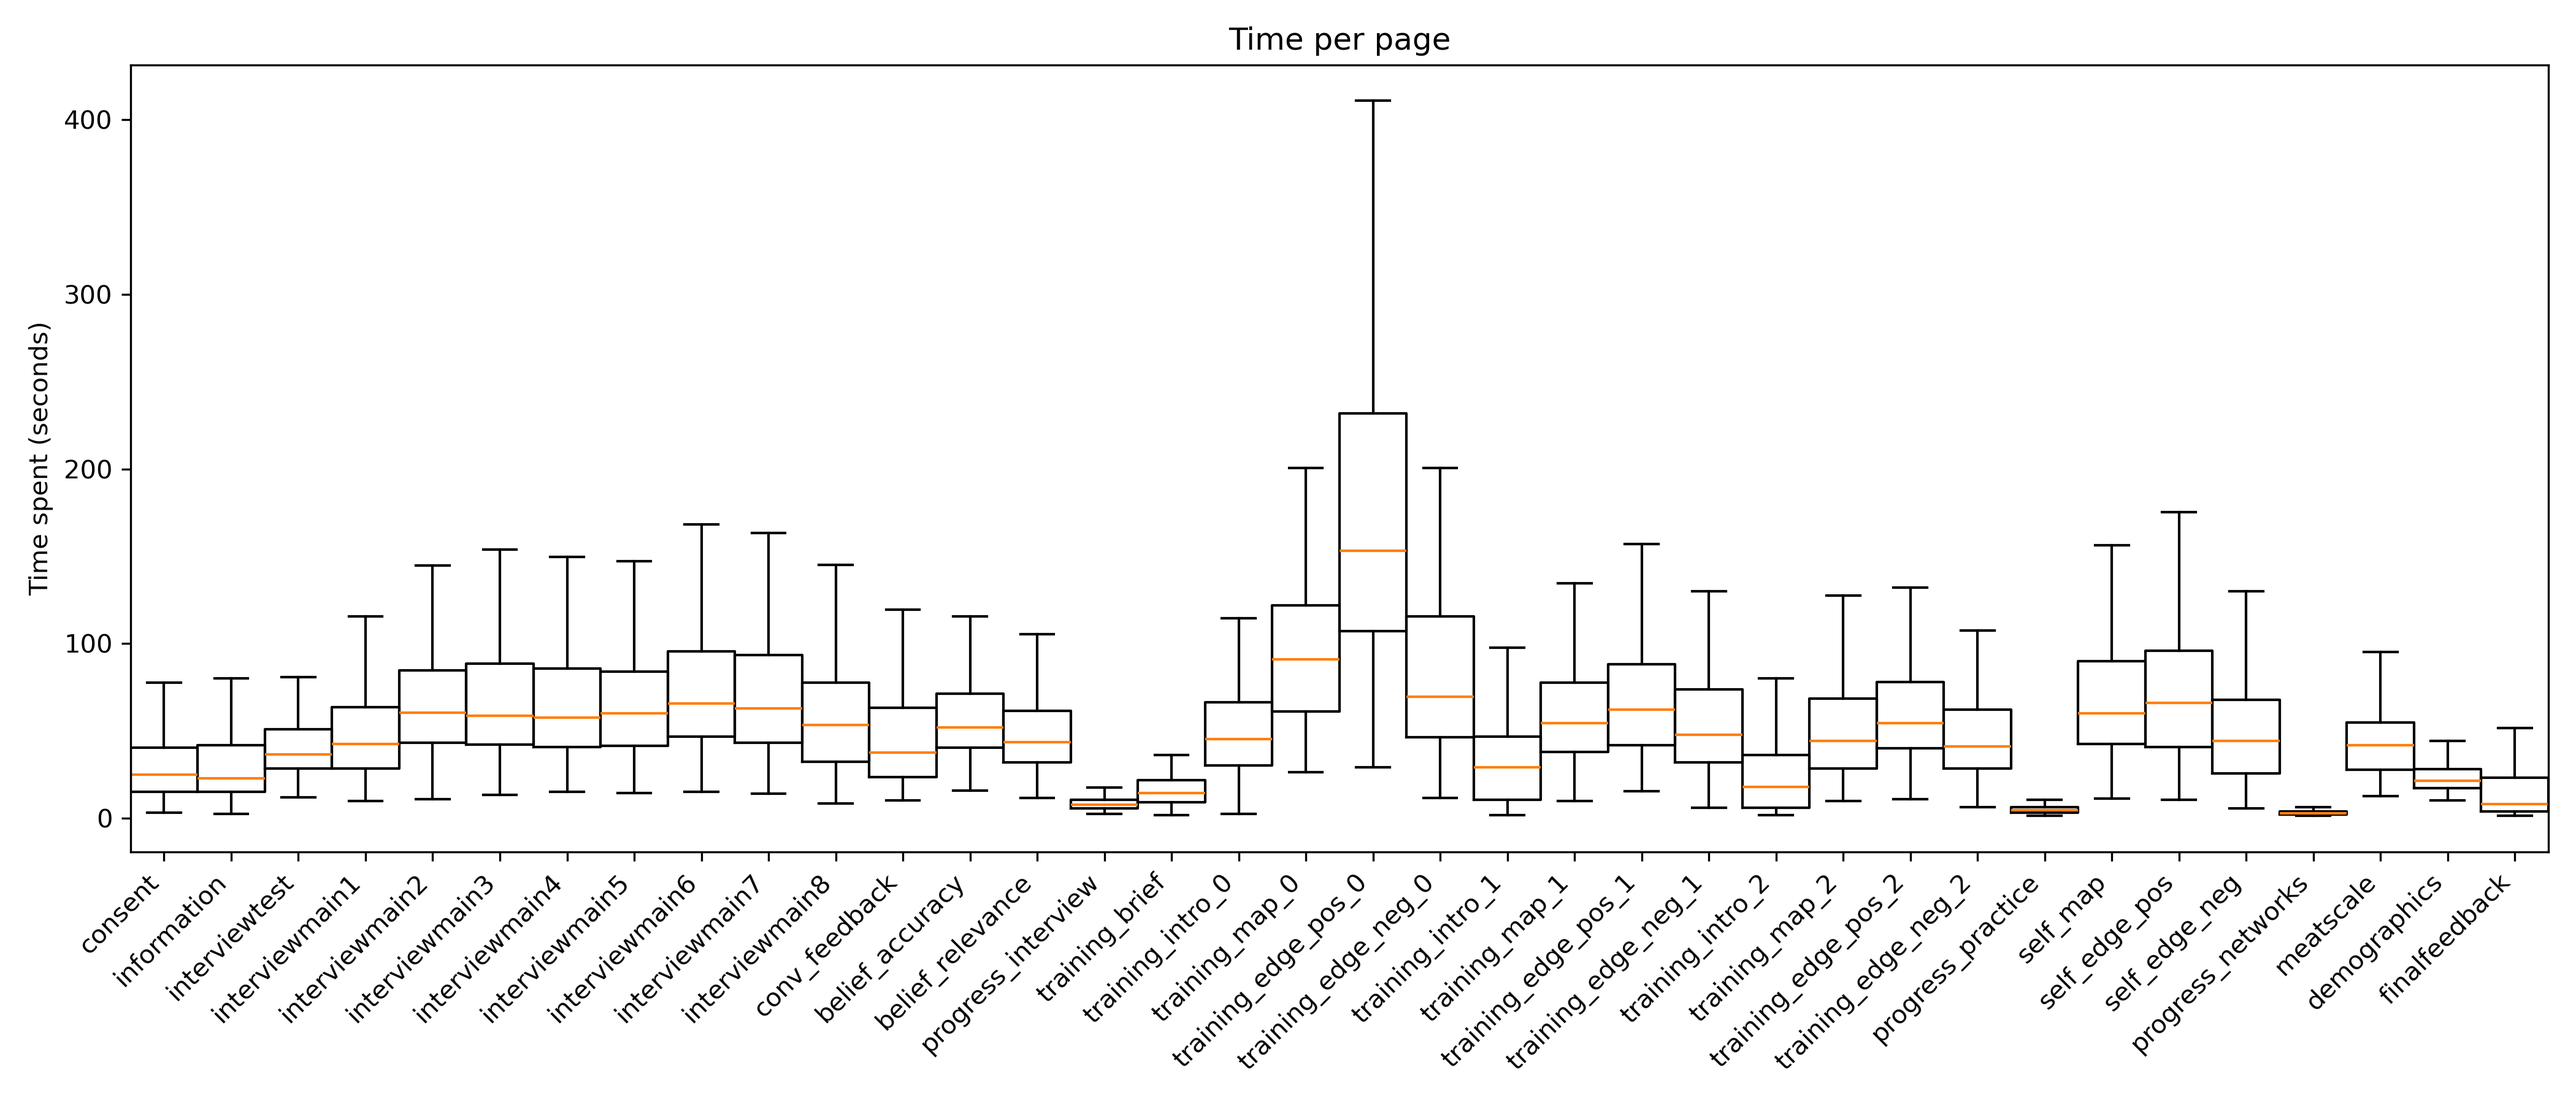
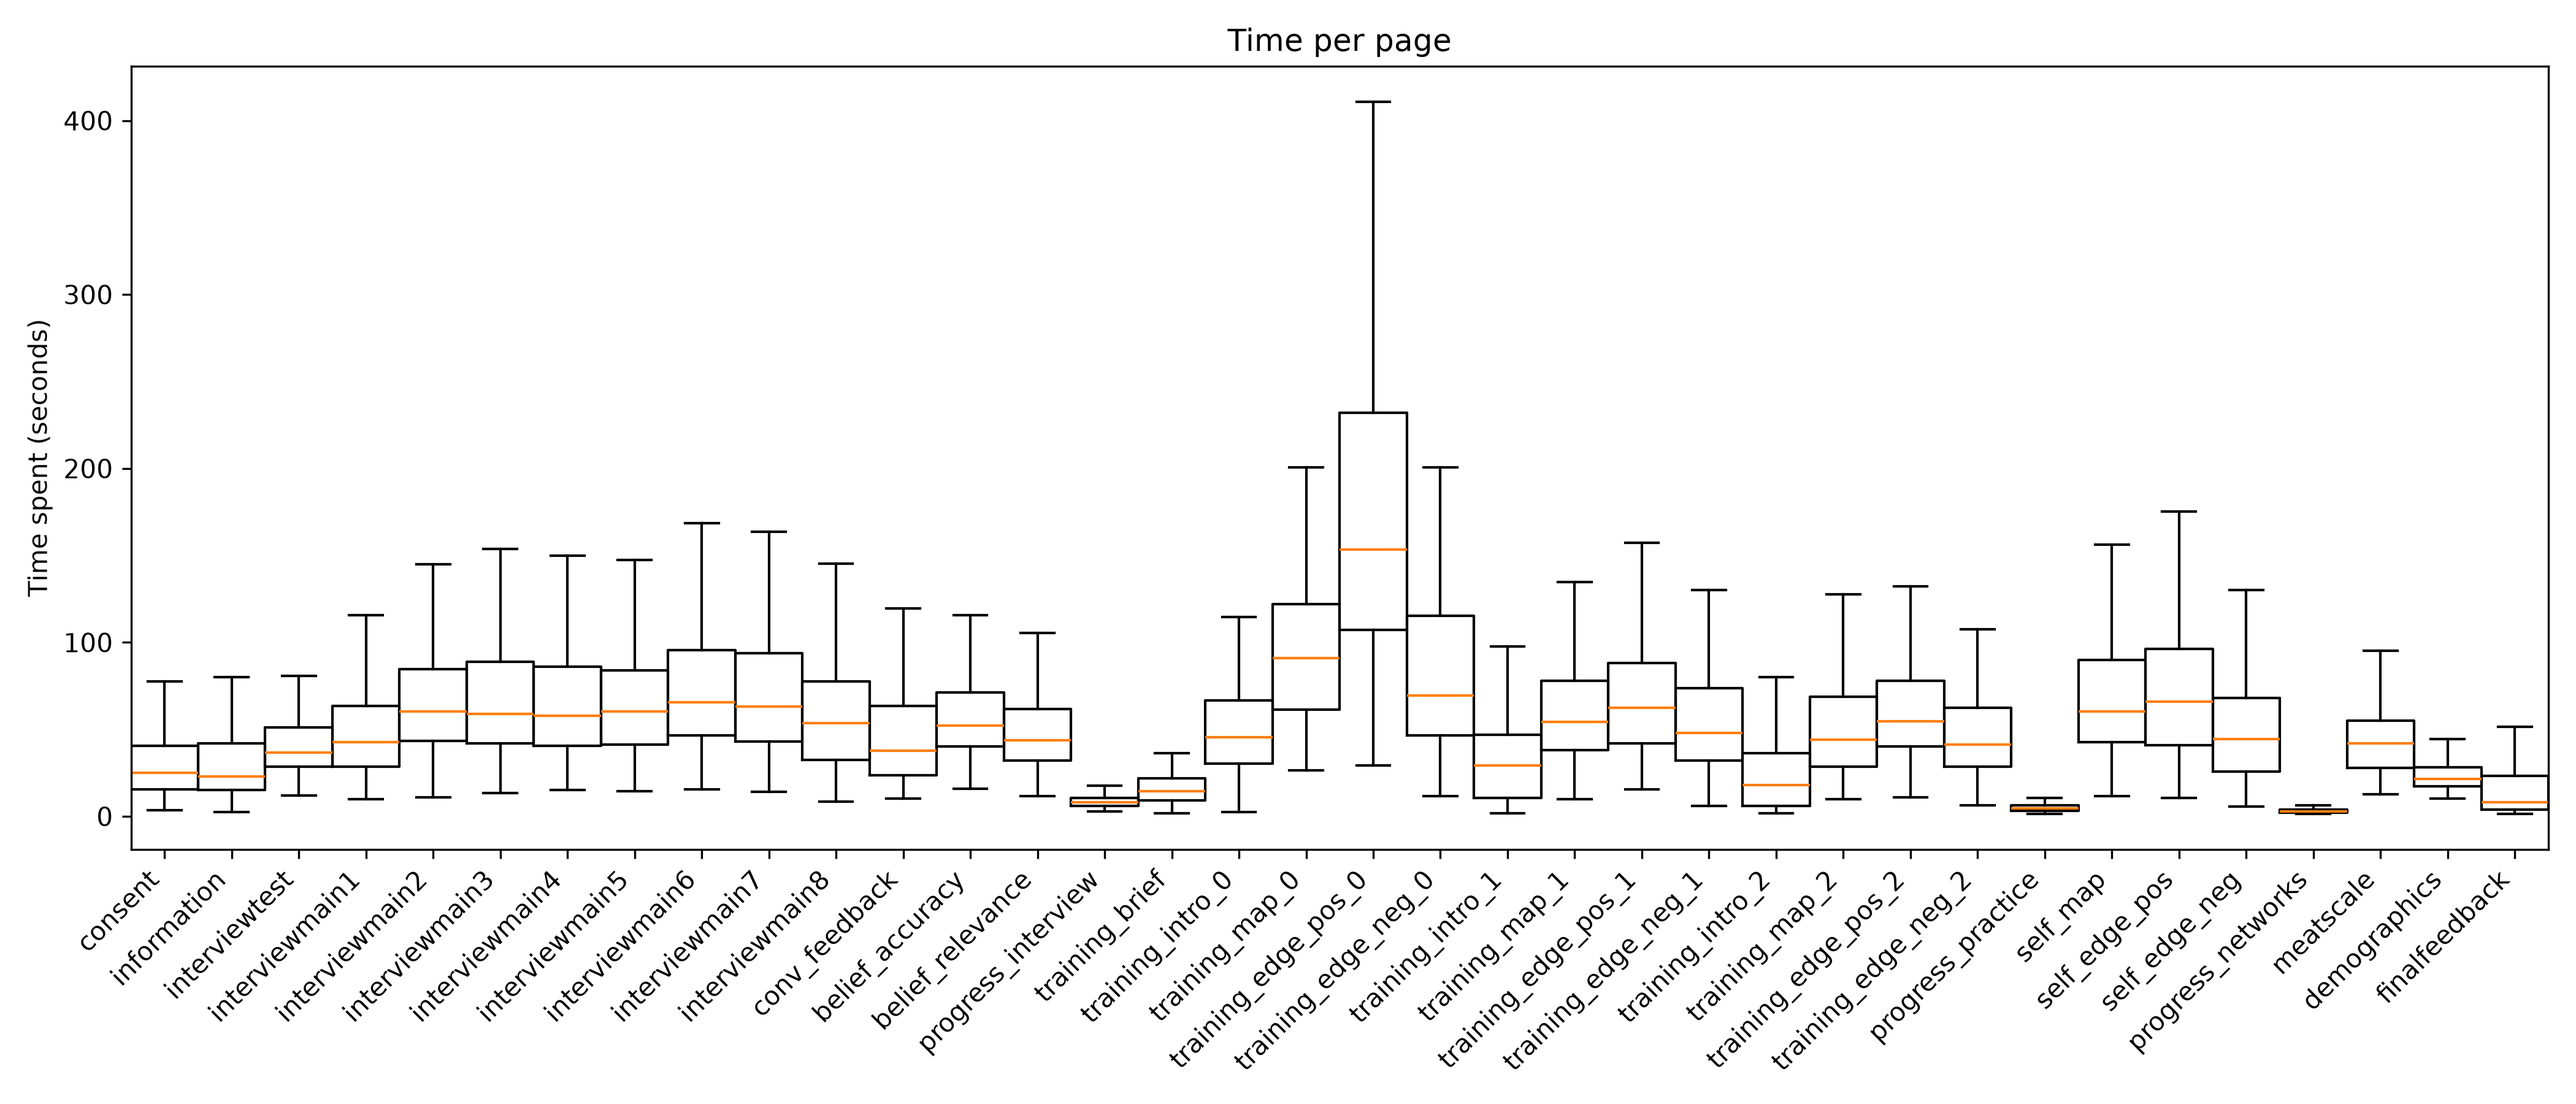
get information on how long training took for documentation

diff --git a/OtreeAnalysis/analysis/20_pagetimes.py b/OtreeAnalysis/analysis/20_pagetimes.py
@@ -4,13 +4,24 @@ VMP 2026-02-06 (refactored):
 - Saves figures to ../fig/pagetimes
 - Uses public data (page_times field is safe, doesn't contain interviews)
 
-NOTE: Diagnostic only — figures not reported in manuscript.
+NOTE: Figures are diagnostic only — not reported in manuscript.
 Used to verify participants spent reasonable time on each survey page.
 
 VMP 2026-02-07: tested and run.
+
+VMP 2026-09-02: added training-duration tables (reviewer question: how long
+did the training take?). Two tables are written to ../fig/pagetimes:
+  - training_rounds_w{1,2}   coarse: one row per training round
+  - training_subtasks_w{1,2} fine:   one row per round x sub-task
+Durations are reported as median and IQR across participants, in minutes.
+A round is intro + map + edge_pos + edge_neg; see INCLUDE_BRIEF for the
+general instructions page that precedes round 1.
+Both waves are now processed in a single run (the figures are unchanged).
+Switch SOURCE to "distractors" to restrict to attention-check passers.
 '''
 
 import os
+import re
 import json
 import numpy as np
 import pandas as pd
@@ -18,18 +29,26 @@ import matplotlib.pyplot as plt
 from utilities import wave_1, wave_2, get_public_path
 
 # setup
-wave = wave_2  # toggled manually and run for both wave_1 and wave_2
+WAVES = [wave_1, wave_2]
 
-# load data from public (sanitized, but includes page_times)
-curation_path = get_public_path("curation_w{wave}.json", wave=wave)
-with open(curation_path, 'r', encoding='utf-8') as f:
-    data = json.load(f)
+# "curation" = all participants; "distractors" = attention-check passers only
+SOURCE = "curation"
 
-# create outfolder 
+# decimal places for reported durations (minutes)
+DECIMALS = 2
+
+# `training_brief` is a general instructions page rather than a training task,
+# and it only precedes round 1. Excluded by default so that every round is the
+# same four sub-tasks (intro + map + edge_pos + edge_neg) and rounds compare
+# like with like. Its duration is separable: page times are backward diffs
+# between submits, so dropping it does not shift any round's time.
+INCLUDE_BRIEF = False
+
+# create outfolder
 outpath_fig = f"../fig/pagetimes"
 os.makedirs(outpath_fig, exist_ok=True)
 
-# page times 
+# page times
 def participant_page_times(data, participant_id):
     dict_id = data[participant_id]
     events = pd.DataFrame(dict_id['page_times']).sort_values('ts').reset_index(drop=True)
@@ -62,33 +81,189 @@ def participant_page_times(data, participant_id):
     # Keep useful columns
     return submits[['participant_id', 'page', 'page_seq', 'ts', 'duration_sec', 'label']]
 
-# extract data for all participants
-dict_keys = data.keys()
-page_times_list = []
-for key in dict_keys:
-    df = participant_page_times(data, key)
-    page_times_list.append(df)
-df = pd.concat(page_times_list, ignore_index=True)
 
-# get the submit rank 
-df = df.sort_values(['participant_id', 'ts']).copy()
-df['submit_rank'] = df.groupby('participant_id').cumcount()
+def load_page_times(wave):
+    """Flat page-time table for one wave."""
+    path = get_public_path(f"{SOURCE}_w{{wave}}.json", wave=wave)
+    with open(path, 'r', encoding='utf-8') as f:
+        data = json.load(f)
 
-labels = (
-    df.groupby('page_seq')['submit_rank']
-      .median()
-      .sort_values()
-      .index
-      .to_list()
-)
+    df = pd.concat(
+        [participant_page_times(data, key) for key in data.keys()],
+        ignore_index=True,
+    )
 
-data_by_page = [df.loc[df['page_seq'] == lab, 'duration_sec'].values for lab in labels]
+    # get the submit rank
+    df = df.sort_values(['participant_id', 'ts']).copy()
+    df['submit_rank'] = df.groupby('participant_id').cumcount()
+    return df
 
-# plot 
-plt.figure(figsize=(14, 6))
-plt.boxplot(data_by_page, tick_labels=labels, showfliers=False, widths=1)
-plt.xticks(rotation=45, ha='right')
-plt.ylabel("Time spent (seconds)")
-plt.title("Time per page")
-plt.tight_layout()
-plt.savefig(os.path.join(outpath_fig, f"pagetimes_w{wave}.png"), dpi=300)
+
+def plot_page_times(df, wave):
+    labels = (
+        df.groupby('page_seq')['submit_rank']
+          .median()
+          .sort_values()
+          .index
+          .to_list()
+    )
+
+    data_by_page = [df.loc[df['page_seq'] == lab, 'duration_sec'].values for lab in labels]
+
+    plt.figure(figsize=(14, 6))
+    plt.boxplot(data_by_page, tick_labels=labels, showfliers=False, widths=1)
+    plt.xticks(rotation=45, ha='right')
+    plt.ylabel("Time spent (seconds)")
+    plt.title("Time per page")
+    plt.tight_layout()
+    plt.savefig(os.path.join(outpath_fig, f"pagetimes_w{wave}.png"), dpi=300)
+    plt.close()
+
+
+# -------------------------
+# training durations
+# -------------------------
+# The training block is `training_brief` followed by one or more rounds of
+# intro -> map -> edge_pos -> edge_neg (3 rounds in w1, 1 round in w2).
+# `progress_practice` is the transition page out of training and is excluded.
+SUBTASK_LABELS = {
+    'intro': 'Read scenario',
+    'map': 'Place statements',
+    'edge_pos': 'Draw supporting links',
+    'edge_neg': 'Draw conflicting links',
+}
+SUBTASK_ORDER = ['intro', 'map', 'edge_pos', 'edge_neg']
+TRAINING_RE = re.compile(r'^training_(intro|map|edge_pos|edge_neg)_(\d+)$')
+
+
+def label_training(df):
+    """Tag training rows with round (1-indexed) and sub-task; drop everything else."""
+    parsed = df['page'].str.extract(TRAINING_RE)
+    parsed.columns = ['subtask', 'round']
+
+    out = df.copy()
+    out['subtask'] = parsed['subtask']
+    # 0-indexed in the instrument, 1-indexed for reporting
+    out['round'] = pd.to_numeric(parsed['round'], errors='coerce') + 1
+
+    # training_brief is a one-off page before round 1, not part of any round
+    if INCLUDE_BRIEF:
+        brief = out['page'] == 'training_brief'
+        out.loc[brief, 'subtask'] = 'brief'
+        out.loc[brief, 'round'] = 0
+
+    return out.dropna(subset=['subtask'])
+
+
+def summarise(series):
+    """Median and IQR over participants, in minutes."""
+    minutes = series / 60
+    q1, q3 = minutes.quantile([0.25, 0.75])
+    return pd.Series({
+        'n': int(minutes.notna().sum()),
+        'median_min': minutes.median(),
+        'q1_min': q1,
+        'q3_min': q3,
+    })
+
+
+def training_tables(df, wave):
+    """Coarse (per round) and fine (per round x sub-task) duration tables."""
+    tr = label_training(df)
+
+    # ---- fine: one row per round x sub-task ----
+    # each participant sees a given round/sub-task once, so no per-participant
+    # aggregation is needed here
+    fine = (
+        tr.groupby(['round', 'subtask'])['duration_sec']
+          .apply(summarise)
+          .unstack()
+          .reset_index()
+    )
+    fine['subtask_order'] = fine['subtask'].map(
+        {**{s: i for i, s in enumerate(SUBTASK_ORDER)}, 'brief': -1}
+    )
+    fine = fine.sort_values(['round', 'subtask_order']).drop(columns='subtask_order')
+    fine.insert(0, 'wave', wave)
+    fine['subtask_label'] = fine['subtask'].map(SUBTASK_LABELS).fillna('Instructions')
+
+    # ---- coarse: total per participant per round, then summarised ----
+    per_participant = (
+        tr.groupby(['participant_id', 'round'])['duration_sec']
+          .sum()
+          .reset_index()
+    )
+    coarse = (
+        per_participant.groupby('round')['duration_sec']
+                       .apply(summarise)
+                       .unstack()
+                       .reset_index()
+    )
+
+    # whole training block per participant (brief + every round)
+    total = (
+        tr.groupby('participant_id')['duration_sec']
+          .sum()
+          .pipe(summarise)
+          .to_frame().T
+    )
+    total.insert(0, 'round', -1)  # sentinel: full block
+    coarse = pd.concat([coarse, total], ignore_index=True)
+    coarse.insert(0, 'wave', wave)
+    coarse['label'] = np.where(
+        coarse['round'] == -1, 'Training block (total)',
+        np.where(coarse['round'] == 0, 'Instructions', 'Round ' + coarse['round'].astype(int).astype(str))
+    )
+
+    out = []
+    for tbl in (coarse, fine):
+        tbl['n'] = tbl['n'].astype(int)
+        tbl['round'] = tbl['round'].astype(int)
+        for col in ('median_min', 'q1_min', 'q3_min'):
+            tbl[col] = tbl[col].round(DECIMALS)
+        out.append(tbl)
+
+    return out[0], out[1]
+
+
+def fmt(tbl, label_col):
+    """Human-readable view: median [IQR] in minutes."""
+    return pd.DataFrame({
+        label_col: tbl[label_col],
+        'n': tbl['n'],
+        'median_min': tbl['median_min'],
+        'IQR_min': tbl.apply(
+            lambda r: f"{r['q1_min']:.{DECIMALS}f}-{r['q3_min']:.{DECIMALS}f}", axis=1
+        ),
+    })
+
+
+# -------------------------
+# run
+# -------------------------
+for wave in WAVES:
+    df = load_page_times(wave)
+    plot_page_times(df, wave)
+
+    coarse, fine = training_tables(df, wave)
+
+    csv_kwargs = dict(index=False, float_format=f"%.{DECIMALS}f")
+    coarse[['wave', 'round', 'label', 'n', 'median_min', 'q1_min', 'q3_min']].to_csv(
+        os.path.join(outpath_fig, f"training_rounds_w{wave}.csv"), **csv_kwargs)
+    fine[['wave', 'round', 'subtask', 'subtask_label', 'n', 'median_min', 'q1_min', 'q3_min']].to_csv(
+        os.path.join(outpath_fig, f"training_subtasks_w{wave}.csv"), **csv_kwargs)
+
+    n_part = df['participant_id'].nunique()
+    print(f"\n{'=' * 72}")
+    print(f"WAVE {wave}  (source: {SOURCE}, n = {n_part} participants)")
+    print('=' * 72)
+
+    print("\n[1] Training duration by round")
+    print(fmt(coarse, 'label').to_string(index=False))
+
+    print("\n[2] Training duration by round x sub-task")
+    fine_view = fmt(fine, 'subtask_label')
+    fine_view.insert(0, 'round', np.where(fine['round'] == 0, '-', fine['round'].astype(int).astype(str)))
+    print(fine_view.to_string(index=False))
+
+print(f"\nWrote figures and tables to {outpath_fig}")
